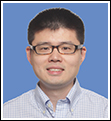
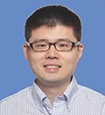
update

diff --git a/assets/css/site.css b/assets/css/site.css
@@ -237,47 +237,6 @@ a {
   font-weight: 750;
 }
 
-.hero-dots {
-  display: flex;
-  justify-content: center;
-  gap: 4px;
-  margin-top: 10px;
-}
-
-.hero-dots span {
-  width: 11px;
-  height: 11px;
-  border: 2px solid #ffffff;
-  border-radius: 50%;
-  background: rgba(255, 255, 255, 0.3);
-}
-
-.hero-dots span:first-child {
-  background: #ffffff;
-}
-
-.hero-arrow {
-  position: absolute;
-  top: 50%;
-  transform: translateY(-50%);
-  width: 54px;
-  height: 72px;
-  border: 0;
-  background: transparent;
-  color: rgba(255, 255, 255, 0.76);
-  font-size: 4rem;
-  line-height: 1;
-  cursor: default;
-}
-
-.hero-arrow-left {
-  left: 22px;
-}
-
-.hero-arrow-right {
-  right: 22px;
-}
-
 .page-hero {
   min-height: 46vh;
   display: grid;
@@ -309,30 +268,35 @@ a {
 }
 
 .content-block h1 {
-  margin: 0 0 20px;
-  padding-bottom: 20px;
+  margin: 0 0 16px;
+  padding-bottom: 16px;
   border-bottom: 1px solid #e5e7eb;
   color: #2d2f33;
-  font-size: clamp(2.1rem, 4vw, 3.2rem);
-  line-height: 1.12;
+  font-size: clamp(1.3rem, 2.1vw, 1.72rem);
+  line-height: 1.18;
   font-weight: 800;
 }
 
 .content-block h2 {
   margin: 0 0 14px;
   color: #2f3338;
-  font-size: clamp(1.55rem, 2.4vw, 2rem);
+  font-size: clamp(1.28rem, 2vw, 1.62rem);
   line-height: 1.2;
 }
 
 .content-block h3 {
   margin: 0 0 7px;
   color: #2f3338;
-  font-size: 1.08rem;
+  font-size: 1rem;
 }
 
 .content-block p {
   color: #3f4650;
+  font-size: 0.96rem;
+}
+
+.content-block li {
+  font-size: 0.96rem;
 }
 
 .home-sidebar {
@@ -349,18 +313,18 @@ a {
 
 .side-card h2 {
   margin: 0;
-  padding: 13px 16px;
+  padding: 11px 14px;
   background: #f8fafc;
   border-bottom: 1px solid #d6e3ef;
   color: #256192;
-  font-size: 1.1rem;
+  font-size: 1rem;
 }
 
 .side-card p {
   margin: 0;
-  padding: 15px 16px 18px;
+  padding: 13px 14px 16px;
   color: #5d6670;
-  font-size: 1.02rem;
+  font-size: 0.94rem;
   line-height: 1.48;
 }
 
@@ -469,7 +433,7 @@ a {
 }
 
 .lead {
-  font-size: 1.07rem;
+  font-size: 0.98rem;
   color: #3b4657;
 }
 
@@ -479,6 +443,7 @@ a {
   border-left: 6px solid var(--blue);
   background: #eaf3fb;
   color: #1f405d;
+  font-size: 0.94rem;
   font-weight: 650;
 }
 
@@ -756,28 +721,28 @@ a {
 .footer-branding {
   display: flex;
   align-items: center;
-  gap: 28px;
+  gap: 24px;
   width: min(1180px, calc(100% - 48px));
   margin: 0 auto;
-  padding: 30px 0 22px;
+  padding: 26px 0 16px;
 }
 
 .footer-logos {
   display: flex;
   align-items: center;
-  gap: 24px;
+  gap: 18px;
   flex: 0 0 auto;
 }
 
 .footer-logo-ieee {
   display: block;
-  width: 190px;
+  width: 150px;
   height: auto;
 }
 
 .footer-logo-sps {
   display: block;
-  width: 210px;
+  width: 168px;
   height: auto;
 }
 
@@ -785,14 +750,15 @@ a {
   margin: 0;
   flex: 1 1 auto;
   color: #111827;
-  font-size: clamp(0.98rem, 1.7vw, 1.28rem);
-  font-weight: 750;
+  font-size: 0.86rem;
+  font-weight: 650;
   line-height: 1.35;
 }
 
 .footer-branding > a {
   color: var(--blue);
-  font-weight: 750;
+  font-size: 0.84rem;
+  font-weight: 700;
   white-space: nowrap;
 }
 
@@ -812,27 +778,23 @@ a {
 .footer-host {
   display: flex;
   align-items: center;
-  justify-content: center;
-  gap: 18px;
-  width: min(1180px, calc(100% - 48px));
-  margin: 0 auto;
-  padding: 12px 0 28px;
-  border-top: 1px solid #edf1f5;
+  gap: 10px;
+  padding-left: 4px;
   color: #263244;
   text-align: left;
 }
 
 .footer-host img {
   display: block;
-  width: 72px;
-  height: 72px;
+  width: 50px;
+  height: 50px;
   object-fit: contain;
 }
 
 .footer-host span {
   display: block;
   color: var(--muted);
-  font-size: 0.78rem;
+  font-size: 0.66rem;
   font-weight: 750;
   text-transform: uppercase;
 }
@@ -840,7 +802,7 @@ a {
 .footer-host strong {
   display: block;
   color: #1f2937;
-  font-size: 1.05rem;
+  font-size: 0.8rem;
   line-height: 1.32;
 }
 
@@ -909,12 +871,8 @@ a {
     min-height: 340px;
   }
 
-  .hero-arrow {
-    display: none;
-  }
-
   .content-block h1 {
-    font-size: clamp(1.8rem, 9vw, 2.5rem);
+    font-size: clamp(1.15rem, 4.2vw, 1.45rem);
   }
 
   .link-grid {
@@ -954,16 +912,7 @@ a {
     flex-wrap: wrap;
   }
 
-  .footer-logo-ieee {
-    width: 150px;
-  }
-
-  .footer-logo-sps {
-    width: 170px;
-  }
-
   .footer-host {
-    flex-direction: column;
-    text-align: center;
+    text-align: left;
   }
 }

diff --git a/_layouts/default.html b/_layouts/default.html
@@ -89,9 +89,17 @@
 
     <footer class="site-footer">
       <div class="footer-branding">
-        <div class="footer-logos" aria-label="IEEE and IEEE Signal Processing Society">
+        <div class="footer-logos" aria-label="IEEE, IEEE Signal Processing Society, and University of Macau">
           <img class="footer-logo-ieee" src="{{ '/logo2.jpg' | relative_url }}" alt="IEEE">
           <img class="footer-logo-sps" src="{{ '/logo1.png' | relative_url }}" alt="IEEE Signal Processing Society">
+          <div class="footer-host">
+            <img src="{{ '/assets/images/university-of-macau-logo.svg' | relative_url }}" alt="University of Macau">
+            <div>
+              <span>Host Institution</span>
+              <strong>University of Macau</strong>
+              <strong>澳門大學</strong>
+            </div>
+          </div>
         </div>
         <p class="footer-copyright">
           2027. IEEE International Conference on Advanced Visual and Signal-Based Systems (AVSS), All Rights Reserved.
@@ -102,14 +110,6 @@
         Hero photo: <a href="https://commons.wikimedia.org/wiki/File:Macau_-_Skyline.jpg" target="_blank" rel="noopener">Macau - Skyline</a>
         by kewl, licensed under <a href="https://creativecommons.org/licenses/by/2.0/" target="_blank" rel="noopener">CC BY 2.0</a>.
       </p>
-      <div class="footer-host">
-        <img src="{{ '/assets/images/university-of-macau-logo.svg' | relative_url }}" alt="University of Macau">
-        <div>
-          <span>Host Institution</span>
-          <strong>University of Macau</strong>
-          <strong>澳門大學</strong>
-        </div>
-      </div>
     </footer>
   </body>
 </html>

diff --git a/index.md b/index.md
@@ -5,15 +5,10 @@ description: AVSS 2027 conference website
 ---
 
 <section class="home-hero" style="--hero-image: url('https://upload.wikimedia.org/wikipedia/commons/5/5e/Macau_-_Skyline.jpg');">
-  <button class="hero-arrow hero-arrow-left" type="button" aria-label="Previous slide">‹</button>
   <div class="hero-caption">
     <h1>Venue: University of Macau, Macau SAR</h1>
     <p>July 15-17, 2027</p>
-    <div class="hero-dots" aria-hidden="true">
-      <span></span><span></span><span></span><span></span>
-    </div>
   </div>
-  <button class="hero-arrow hero-arrow-right" type="button" aria-label="Next slide">›</button>
 </section>
 
 <section class="home-grid">